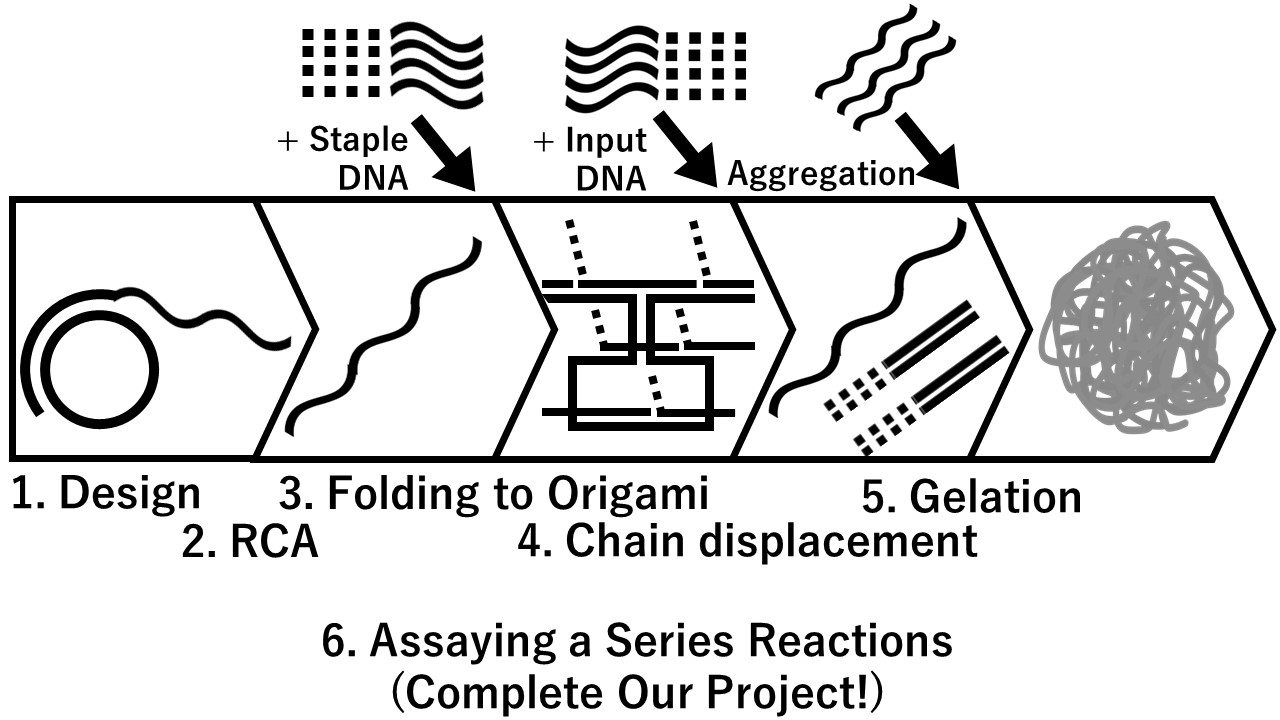
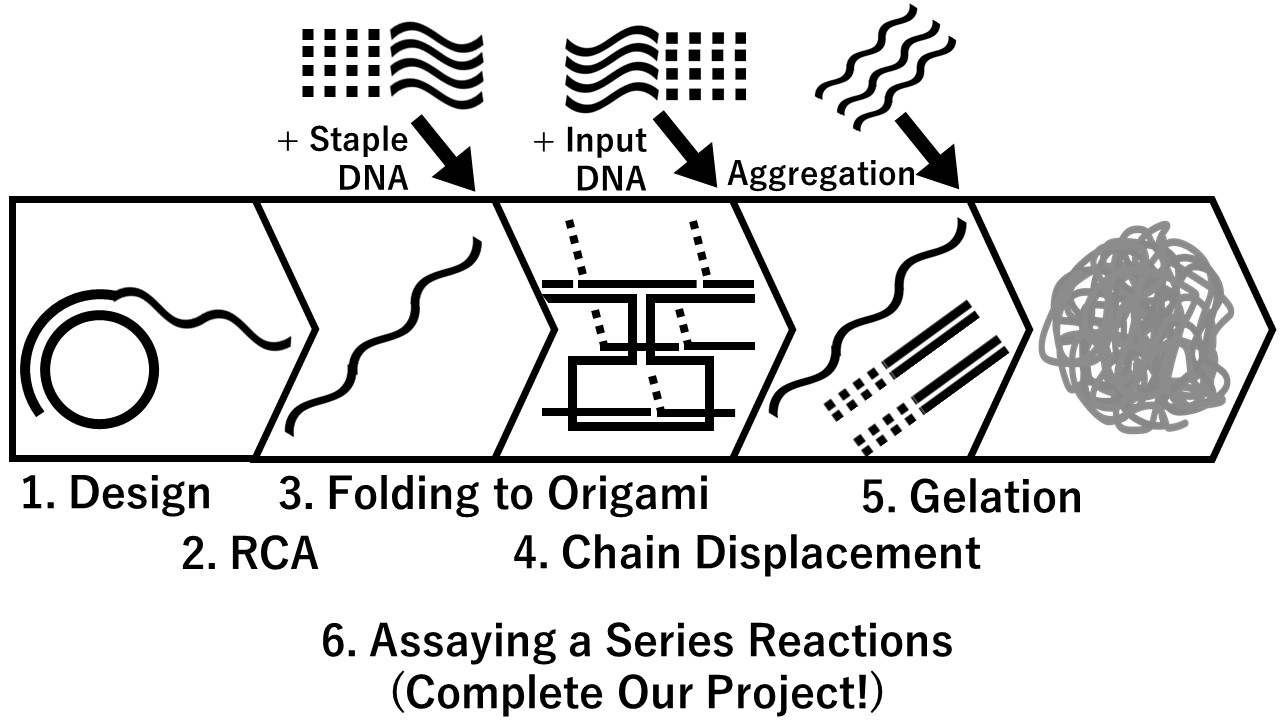
update kaji

Changed region(s): [[0.4062, 0.7028, 0.7812, 0.7944], [0.0, 0.6417, 0.25, 0.7944]]

diff --git a/page/project.html b/page/project.html
@@ -23,7 +23,7 @@
         <nav>
             <ul class="page_tag">
                 <li><a href="team.html">TEAM</a> </li>
-                <li><a href="conclution.html">CONCLUSION</a></li>
+                <li><a href="conclusion.html">CONCLUSION</a></li>
                 <li class="experiment"><a href="experiment.html">EXPERIMENT</a> 
                     <ul>
                         <li><a href="ex1.html">EXPERIMENT1</a></li>
@@ -103,10 +103,6 @@
                 &emsp;
                 We named this device <strong>“DNA Mochi Device”</strong>.
             </p>
-            <p class="figure">
-                Figure 1: work flow of DNA Mochi Device reactions
-
-            </p>
         </div>
 
         <div class="plan">
@@ -135,13 +131,25 @@
                     Perform RCA using the designed template and confirm that long-stranded DNA is produced.
                 </ol>
                 <ol>
-                    3. Origami and Gel:
+                    3. folding to Origami:
                     <br>
                     &emsp;
-                    Using the RCA product long-stranded DNA, confirm that folding to Origami-like structure and Gelation.
+                    Using the RCA product long-stranded DNA, confirm that folding to Origami-like structure.
                 </ol>
                 <ol>
-                    4. Finalize:
+                    4. Chain displacement:
+                    <br>
+                    &emsp;
+                    Confirm the RCA product folded to Origami-like structure to be single stranded by strand displacement.
+                </ol>
+                <ol>
+                    5. Gelation:
+                    <br>
+                    &emsp;
+                    Using the RCA product long-stranded DNA, confirm gelation.
+                </ol>
+                <ol>
+                    6. Assaying a Series reactions:
                     <br>
                     &emsp;
                     Confirm the change from the Origami-like structure to the Gel structure by following the workflow. (Completion of device!)

diff --git a/page/conclusion.html b/page/conclusion.html
@@ -21,7 +21,7 @@
          <nav>
             <ul class="page_tag">
                 <li><a href="team.html">TEAM</a> </li>
-               <li><a href="conclution.html">CONCLUSION</a></li>
+               <li><a href="conclusion.html">CONCLUSION</a></li>
                 <li class="experiment"><a href="experiment.html">EXPERIMENT</a> 
                  <ul>
                         <li><a href="ex1.html">EXPERIMENT1</a></li>
@@ -63,13 +63,25 @@
                 Perform RCA using the designed template and confirm that long-stranded DNA is produced.
             </ol>
             <ol>
-                3. Origami and Gel:
+                3. folding to Origami:
                 <br>
                 &emsp;
-                Using the RCA product long-stranded DNA, confirm that folding to Origami-like structure and Gelation.
+                Using the RCA product long-stranded DNA, confirm that folding to Origami-like structure.
             </ol>
             <ol>
-                4. Finalize:
+                4. Chain displacement:
+                <br>
+                &emsp;
+                Confirm the RCA product folded to Origami-like structure to be single stranded by strand displacement.
+            </ol>
+            <ol>
+                5. Gelation:
+                <br>
+                &emsp;
+                Using the RCA product long-stranded DNA, confirm gelation.
+            </ol>
+            <ol>
+                6. Assaying a Series reactions:
                 <br>
                 &emsp;
                 Confirm the change from the Origami-like structure to the Gel structure by following the workflow. (Completion of device!)

diff --git a/index.html b/index.html
@@ -23,7 +23,7 @@
         <nav>
             <ul class="page_tag">
                 <li><a href="page/team.html">TEAM</a> </li>
-                <li><a href="page/conclution.html">CONCLUSION</a></li>
+                <li><a href="page/conclusion.html">CONCLUSION</a></li>
                 <li class="experiment"><a href="page/experiment.html">EXPERIMENT</a> 
                     <ul>
                         <li><a href="page/ex1.html">EXPERIMENT1</a></li>

diff --git a/page/design.html b/page/design.html
@@ -23,7 +23,7 @@
         <nav>
             <ul class="page_tag">
                 <li><a href="team.html">TEAM</a> </li>
-                <li><a href="conclution.html">CONCLUSION</a></li>
+                <li><a href="conclusion.html">CONCLUSION</a></li>
                 <li class="experiment"><a href="experiment.html">EXPERIMENT</a> 
                     <ul>
                         <li><a href="ex1.html">EXPERIMENT1</a></li>

diff --git a/page/ex1.html b/page/ex1.html
@@ -21,7 +21,7 @@
         <nav>
             <ul class="page_tag">
                 <li><a href="team.html">TEAM</a> </li>
-                <li><a href="conclution.html">CONCLUSION</a></li>
+                <li><a href="conclusion.html">CONCLUSION</a></li>
                 <li class="experiment"><a href="experiment.html">EXPERIMENT</a> 
                     <ul>
                         <li><a href="ex1.html">EXPERIMENT1</a></li>

diff --git a/page/ex2.html b/page/ex2.html
@@ -21,7 +21,7 @@
         <nav>
             <ul class="page_tag">
                 <li><a href="team.html">TEAM</a> </li>
-                <li><a href="conclution.html">CONCLUSION</a></li>
+                <li><a href="conclusion.html">CONCLUSION</a></li>
                 <li class="experiment"><a href="experiment.html">EXPERIMENT</a> 
                     <ul>
                         <li><a href="ex1.html">EXPERIMENT1</a></li>

diff --git a/page/ex3.html b/page/ex3.html
@@ -22,7 +22,7 @@
         <nav>
             <ul class="page_tag">
                 <li><a href="team.html">TEAM</a> </li>
-                <li><a href="conclution.html">CONCLUSION</a></li>
+                <li><a href="conclusion.html">CONCLUSION</a></li>
                 <li class="experiment"><a href="experiment.html">EXPERIMENT</a> 
                     <ul>
                         <li><a href="ex1.html">EXPERIMENT1</a></li>

diff --git a/page/experiment.html b/page/experiment.html
@@ -23,7 +23,7 @@
         <nav>
             <ul class="page_tag">
                 <li><a href="team.html">TEAM</a> </li>
-                <li><a href="conclution.html">CONCLUSION</a></li>
+                <li><a href="conclusion.html">CONCLUSION</a></li>
                 <li class="experiment"><a href="experiment.html">EXPERIMENT</a> 
                     <ul>
                         <li><a href="ex1.html">EXPERIMENT1</a></li>

diff --git a/page/team.html b/page/team.html
@@ -23,7 +23,7 @@
         <nav>
             <ul class="page_tag">
                 <li><a href="team.html">TEAM</a> </li>
-                <li><a href="conclution.html">CONCLUSION</a></li>
+                <li><a href="conclusion.html">CONCLUSION</a></li>
                 <li class="experiment"><a href="experiment.html">EXPERIMENT</a> 
                     <ul>
                         <li><a href="ex1.html">EXPERIMENT1</a></li>
